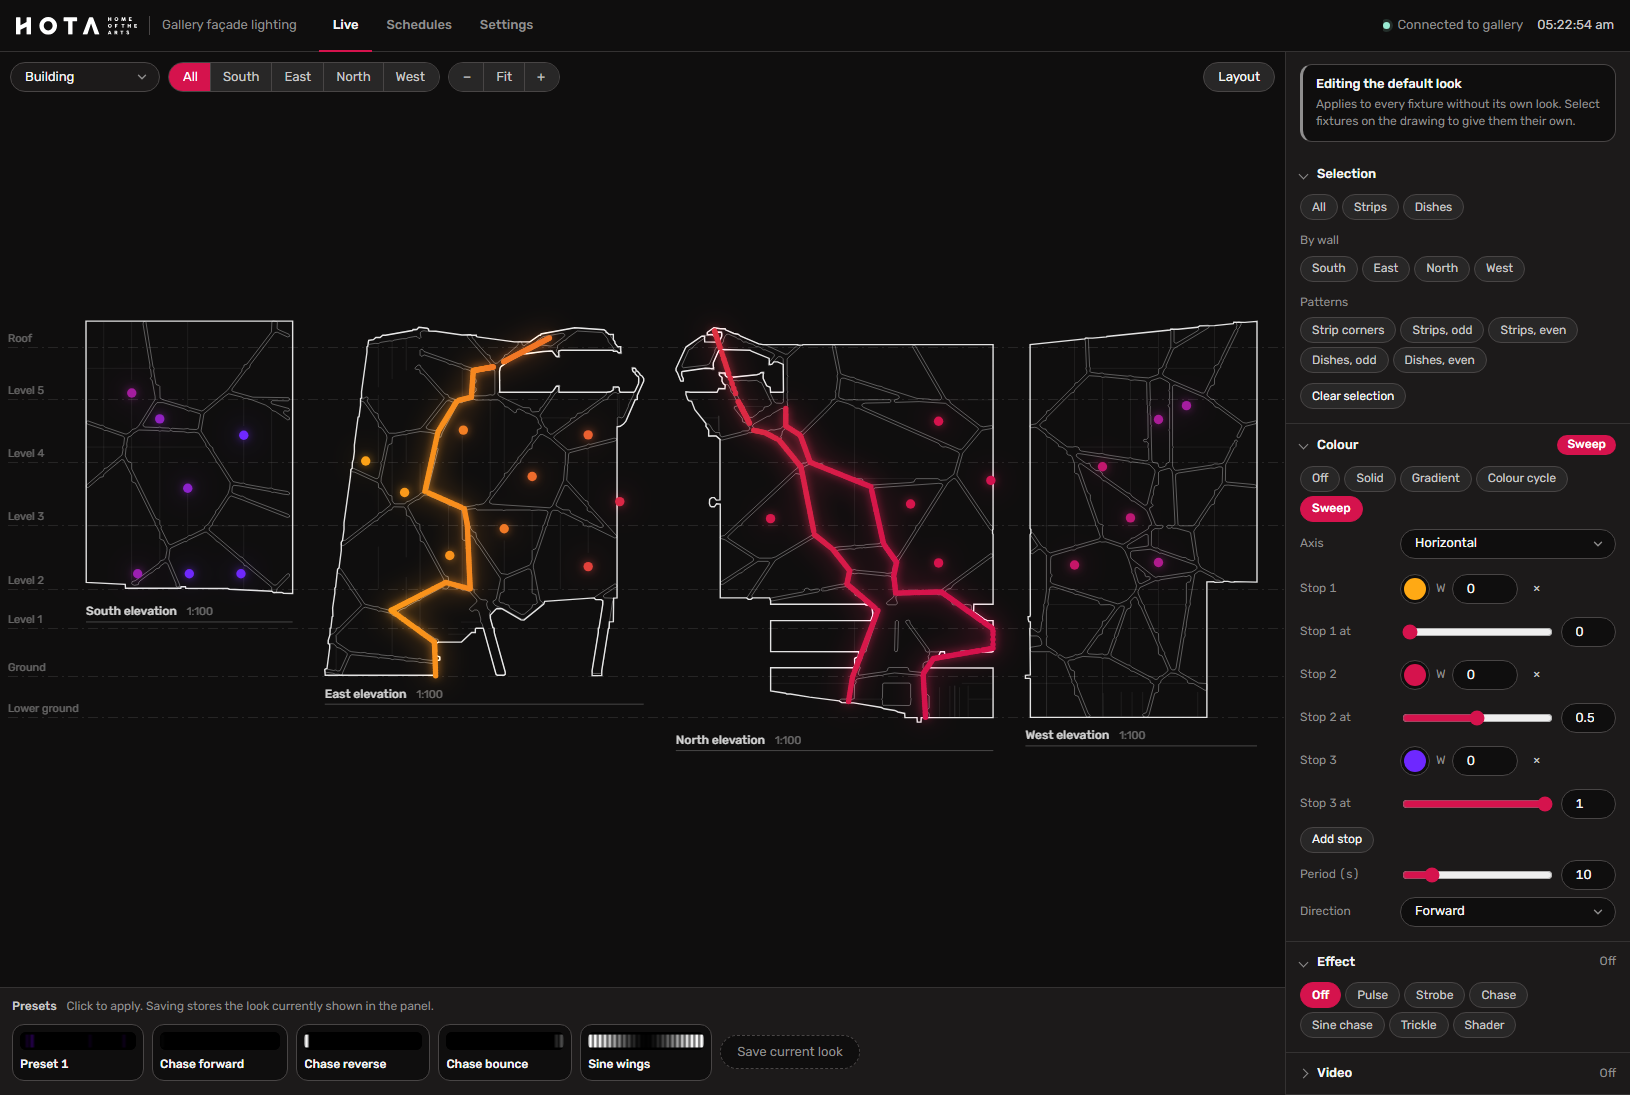
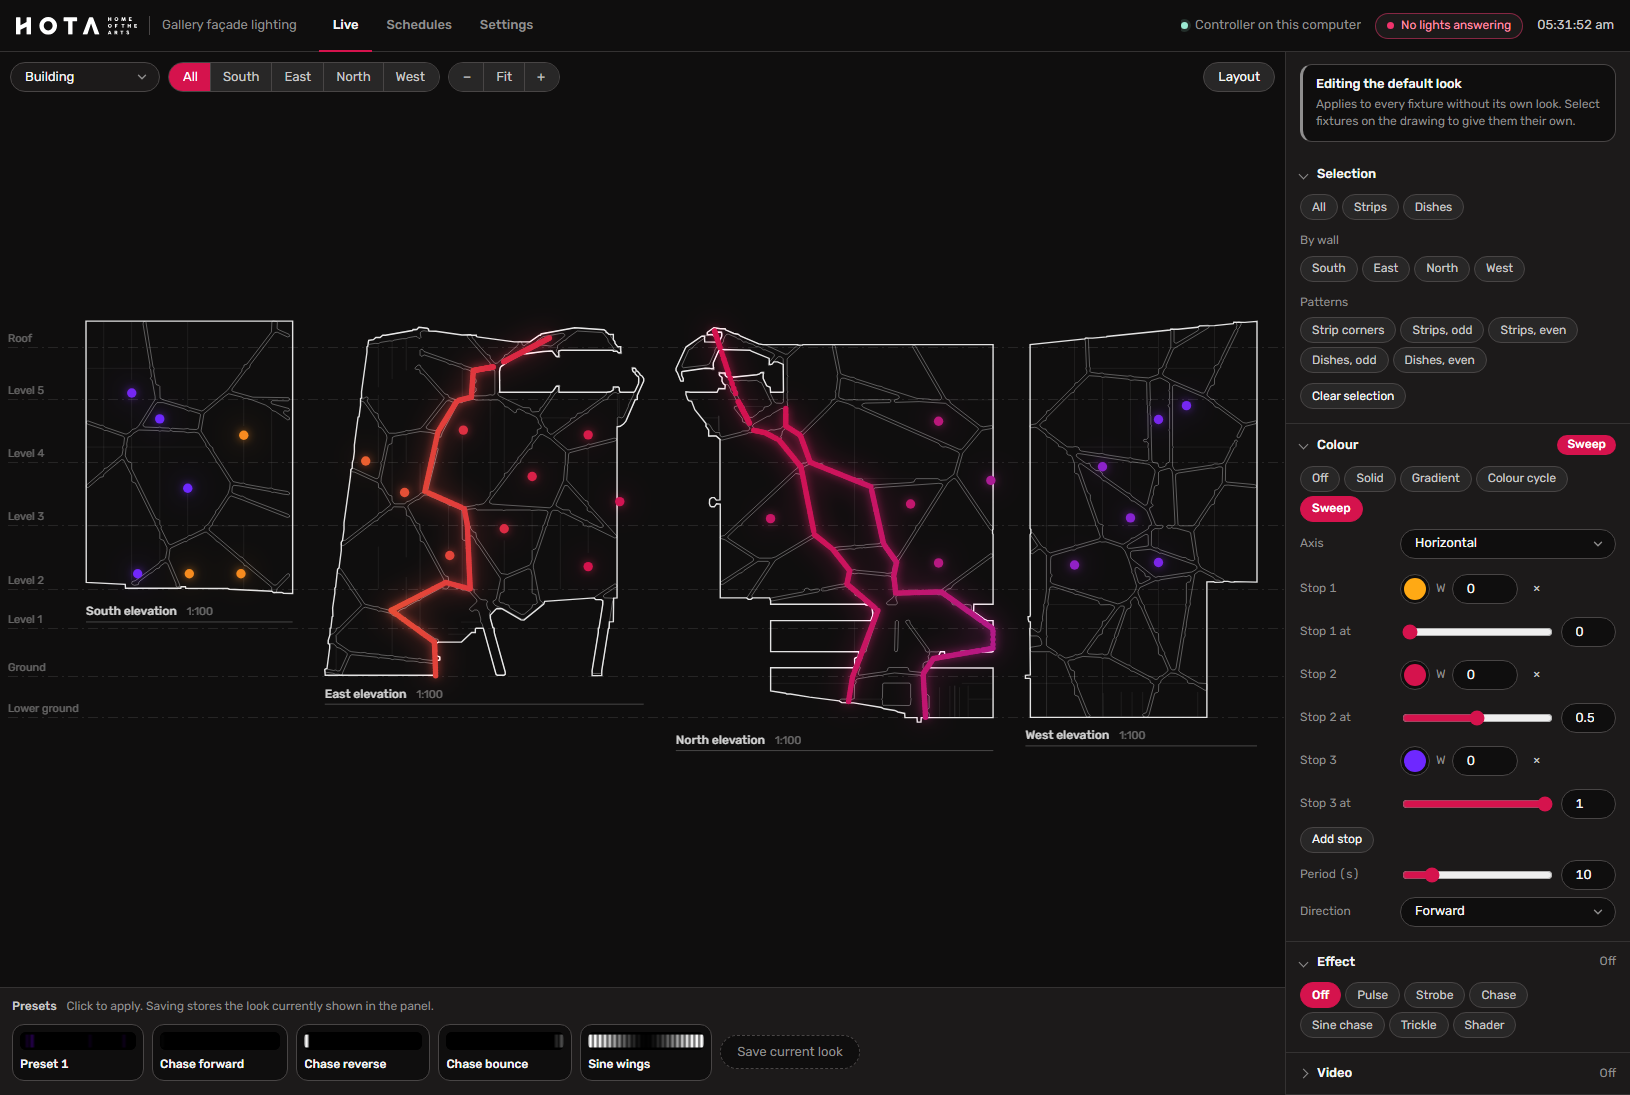
Header: say which controller, add a Lights reachability indicator
"Connected to gallery" read as if the building was reachable, but
"gallery" is just the controller's device_name. The header now says
"Controller on this computer" / "Controller at <host>", and a separate
Lights pill shows how many patched universes have an Art-Net node
answering (green all, amber some, red none). It scans on load, every
5 minutes and on "Scan again"; clicking it opens Settings.

Screenshots retaken with the new header.

diff --git a/hota_gallery/static/app.js b/hota_gallery/static/app.js
@@ -244,12 +244,17 @@
     return elev && builtinBuilding && !ls.some(l => l.name === "Building") ? [builtinBuilding, ...ls] : ls;
   };
 
+  // Where the controller is: "this computer" when served from localhost
+  // (e.g. a test run on a laptop), otherwise its address on the network.
+  const isLocalHost = ["localhost", "127.0.0.1", "[::1]", "::1"].includes(location.hostname);
   function setConn() {
     conn.dataset.kind = api.kind;
     conn.querySelector("span").textContent = api.kind === "controller"
-      ? `Connected to ${cfg.device_name || "controller"}`
+      ? (isLocalHost ? "Controller on this computer" : `Controller at ${location.hostname}`)
       : "Demo: changes are saved in this browser only";
-    conn.title = api.kind === "controller" ? "Changes go straight to the lighting controller." : "No controller found. Nothing here affects the real building.";
+    conn.title = api.kind === "controller"
+      ? `This page is talking to the lighting controller "${cfg.device_name || "unnamed"}" at ${location.host}. Whether its lights are reachable is shown by the Lights indicator.`
+      : "No controller found. Nothing here affects the real building.";
   }
   setConn();
 
@@ -1491,6 +1496,34 @@
   let artnetScan = null;
   let artnetScanning = false;
 
+  // Art-Net check shared by the header "Lights" pill and the Settings card.
+  // Runs on load (controller only), every 5 minutes, and on "Scan again".
+  const lightsEl = $("#lights");
+  function updateLights() {
+    if (api.kind !== "controller") { lightsEl.hidden = true; return; }
+    lightsEl.hidden = false;
+    if (!artnetScan) { lightsEl.dataset.state = "checking"; lightsEl.querySelector("span").textContent = "Checking lights…"; lightsEl.title = "Looking for Art-Net nodes on the network."; return; }
+    const unis = patchUniverses().map(u => u.universe);
+    const answering = new Set(artnetScan.nodes.flatMap(n => n.universes_out || []));
+    const ok = unis.filter(u => answering.has(u)).length;
+    lightsEl.dataset.state = ok === unis.length ? "ok" : ok ? "part" : "bad";
+    lightsEl.querySelector("span").textContent = ok === 0 ? "No lights answering" : `Lights: ${ok}/${unis.length} universes`;
+    lightsEl.title = `${artnetScan.nodes.length} Art-Net node${artnetScan.nodes.length === 1 ? "" : "s"} replied at ${artnetScan.at.toLocaleTimeString([], { hour: "2-digit", minute: "2-digit" })}. Open Settings for details.`;
+  }
+  lightsEl.addEventListener("click", () => showTab("settings"));
+  async function scanArtnet() {
+    if (artnetScanning || api.kind !== "controller") return null;
+    artnetScanning = true; updateLights();
+    try {
+      const nodes = await api.artnetDiscover();
+      artnetScan = { at: new Date(), nodes };
+      return nodes;
+    } finally {
+      artnetScanning = false; updateLights();
+      if (!tabs.settings.hidden) renderArtnet();
+    }
+  }
+
   // Universes the patch uses - same numbers as /api/artnet/status, but
   // worked out locally so the demo can show the table too.
   function patchUniverses() {
@@ -1568,22 +1601,14 @@
 
     async function runScan() {
       if (artnetScanning) return;
-      artnetScanning = true;
       scan.disabled = true; scan.textContent = "Scanning…";
       try {
-        const nodes = await api.artnetDiscover();
-        artnetScan = { at: new Date(), nodes };
-        artnetScanning = false;
-        await renderArtnet();
-        if (!nodes.length) slideAlert($("#artnetCard .alert-slot"), "No Art-Net nodes replied", "Check the network interface under Device, and that the nodes are powered and plugged into the gallery network.");
+        const nodes = await scanArtnet();
+        if (nodes && !nodes.length) slideAlert($("#artnetCard .alert-slot"), "No Art-Net nodes replied", "Check the network interface under Device, and that the nodes are powered and plugged into the gallery network.");
       } catch (e) {
-        artnetScanning = false;
-        scan.disabled = false; scan.textContent = artnetScan ? "Scan again" : "Scan for nodes";
-        slideAlert(alertSlot, "The scan didn't run", errText(e));
+        slideAlert($("#artnetCard .alert-slot"), "The scan didn't run", errText(e));
       }
     }
-    // First visit on the real controller: check straight away.
-    if (api.kind === "controller" && !artnetScan && !artnetScanning) runScan();
   }
   function renderConfigCard() {
     const file = h("input", { type: "file", accept: "application/json,.json", hidden: true });
@@ -1649,4 +1674,9 @@
   resize(); fitView("all");
   showTab(location.hash.slice(1) || "live");
   requestAnimationFrame(frame);
+  updateLights();
+  if (api.kind === "controller") {
+    scanArtnet().catch(() => {});
+    setInterval(() => { if (!document.hidden) scanArtnet().catch(() => {}); }, 5 * 60 * 1000);
+  }
 })();

diff --git a/hota_gallery/static/app.css b/hota_gallery/static/app.css
@@ -68,6 +68,21 @@ h2, h3, h4 { margin: 0; font-weight: 500; }
 .conn[data-kind="local"] i { background: var(--warn); }
 .conn[data-kind="error"] i { background: var(--danger); }
 .clock { color: var(--text-2); }
+.lights {
+  display: inline-flex; align-items: center; gap: 7px; height: 26px; padding: 0 11px;
+  border: 1px solid var(--line-2); border-radius: var(--pill); background: var(--surface);
+  color: var(--text-2); font-size: 12px; white-space: nowrap;
+}
+.lights:hover { border-color: var(--muted); color: var(--text); }
+.lights i { width: 7px; height: 7px; border-radius: 50%; background: var(--muted); flex-shrink: 0; }
+.lights[data-state="checking"] i { animation: lights-pulse 1s ease-in-out infinite; }
+.lights[data-state="ok"] { border-color: rgba(61,220,151,.4); color: #6ff0b6; }
+.lights[data-state="ok"] i { background: #3ddc97; }
+.lights[data-state="part"] { border-color: rgba(252,187,0,.45); color: var(--warn); }
+.lights[data-state="part"] i { background: var(--warn); }
+.lights[data-state="bad"] { border-color: rgba(240,51,108,.5); color: #ff8fa8; }
+.lights[data-state="bad"] i { background: var(--accent-2); }
+@keyframes lights-pulse { 50% { opacity: .3; } }
 
 /* ---------- shared controls ---------- */
 .btn {
@@ -419,6 +434,8 @@ table.tbl { width: 100%; border-collapse: collapse; }
   .top { position: sticky; top: 0; z-index: 20; gap: 10px; padding: 0 12px; }
   .status .clock { display: none; }
   .conn span { display: none; }
+  .lights span { display: none; }
+  .lights { padding: 0 9px; }
   .live { grid-template-columns: 1fr; height: auto; }
   .stage { border-right: 0; }
   /* The unfolded building is ~3.5:1, so size to the width plus toolbar room. */
@@ -436,6 +453,7 @@ table.tbl { width: 100%; border-collapse: collapse; }
   * { transition: none !important; }
   .dlg, .dlg::backdrop, .ps-list { animation: none !important; }
   .alert-wrap, .alert { transition: none !important; }
+  .lights i { animation: none !important; }
 }
 
 a.link { color: var(--accent-2); text-decoration: underline; text-underline-offset: 2px; }

diff --git a/hota_gallery/static/index.html b/hota_gallery/static/index.html
@@ -24,6 +24,7 @@
     </nav>
     <div class="status">
       <div class="conn" id="conn" data-kind="pending"><i></i><span>Connecting…</span></div>
+      <button type="button" class="lights" id="lights" hidden><i></i><span></span></button>
       <div class="clock" id="clock"></div>
     </div>
   </header>
